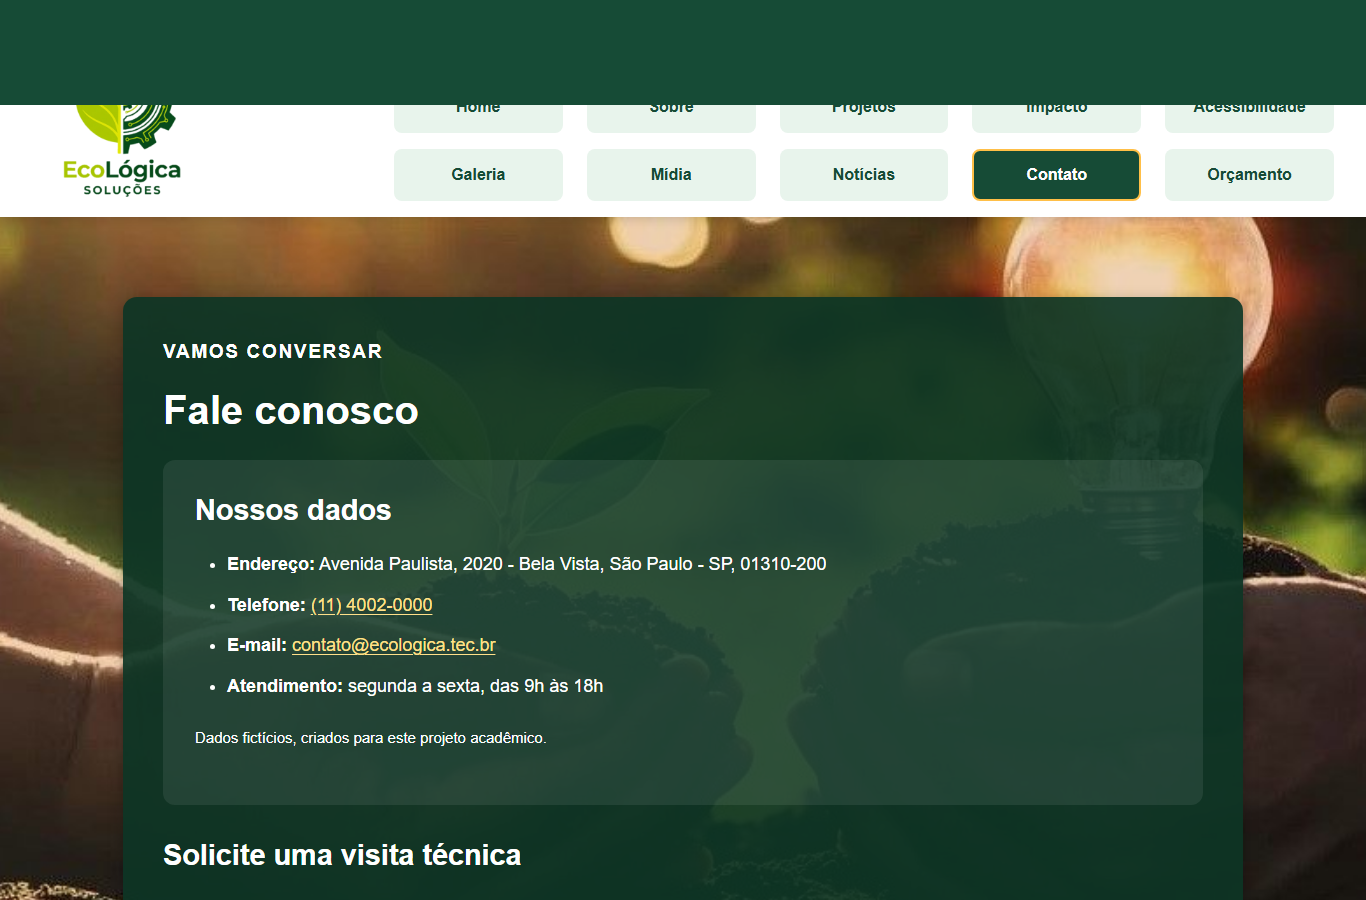
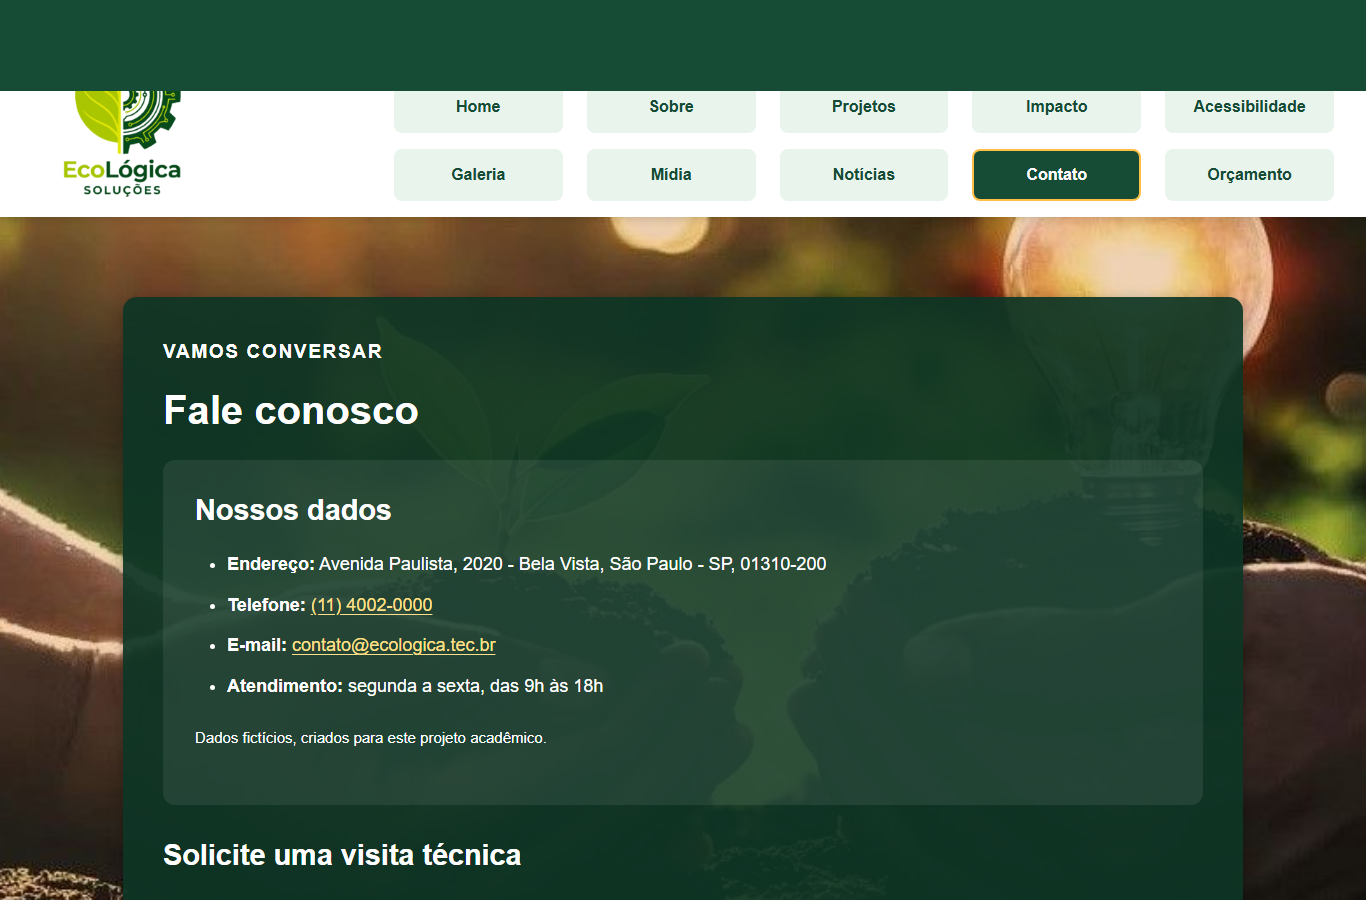
Evidências: novos prints do W3C e de plano B de Contato e Mídia (Aula 10)

diff --git a/docs/evidencias-testes.md b/docs/evidencias-testes.md
@@ -6,6 +6,8 @@
 
 **Validação oficial em 15/11/2026 no https://validator.w3.org/nu/ (Nu Html Checker, vnu 26.11.14), pela URL publicada https://ecologica.up.railway.app:** as 10 páginas passaram com **0 erros e 0 avisos** ("Document checking completed. No errors or warnings to show.").
 
+Em 20/11/2026, depois das atividades da Aula 10, `contato.html` e `midia.html` foram validadas de novo no validator.w3.org (vnu 26.11.20): 0 erros e 0 avisos (prints `w3c-contato.png` e `w3c-midia.png` atualizados).
+
 Como repetir: acessar https://validator.w3.org/ → aba **Validate by URI** → colar o endereço de cada página → **Check**. O validator.w3.org tem proteção anti-robô (Cloudflare) e pode pedir "Confirme que é humano" ou bloquear muitas consultas seguidas; nesse caso, valide uma página por vez.
 
 | Página | Resultado | Print |
@@ -65,7 +67,7 @@ Prints do site publicado (A06):
 * Celular (375 × 812): `final-celular.png`, `final-celular-menu-aberto.png`, `final-celular-galeria.png`, `final-celular-tabela.png`
 * Tablet (768 × 1024): `final-tablet.png`
 * Desktop (1366 × 900): `final-desktop.png`
-* As 10 páginas no desktop (também servem de plano B da apresentação): pasta `paginas/` (`01-index.png` a `10-orcamento_hospedagem.png`)
+* As 10 páginas no desktop (também servem de plano B da apresentação): pasta `paginas/` (`01-index.png` a `10-orcamento_hospedagem.png`); em 20/11/2026 foram refeitas as de Mídia e Contato e acrescentadas `07b-midia-video-youtube.png` (vídeo do YouTube e botão) e `09b-contato-mensagem-curta.png` (erro da mensagem com menos de 10 caracteres)
 * Recursos de acessibilidade: `acessibilidade-modo-daltonico.png`, `acessibilidade-texto-aumentado.png`
 
 ## 5. Formulário (contato.html)
